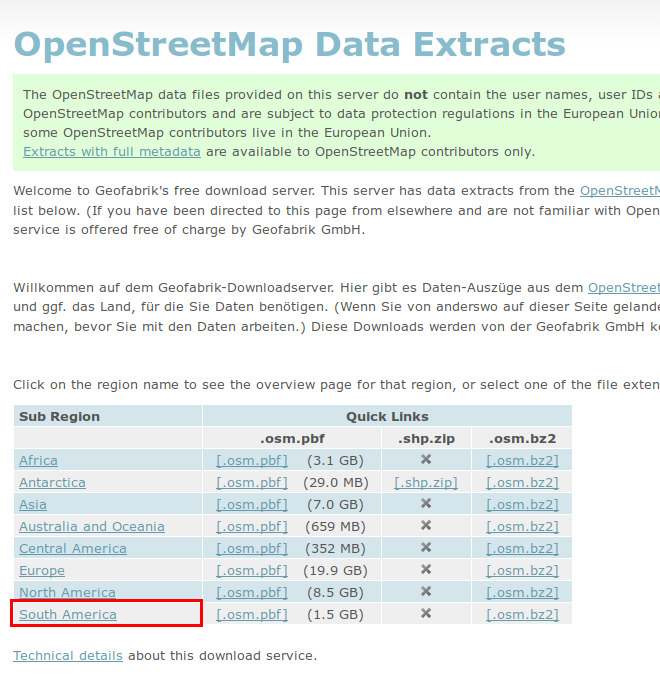
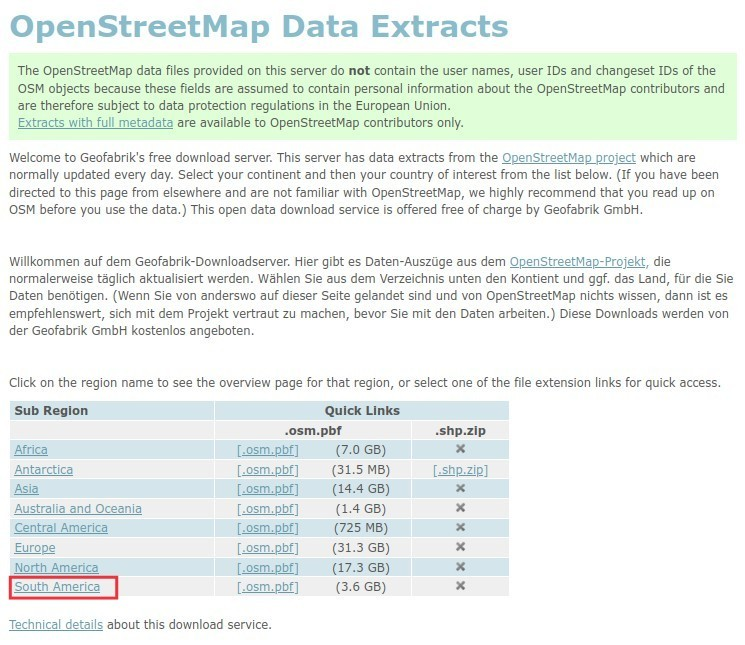
3.5 maj données + capture écran quickosm

diff --git a/03_05_donnees_osm.php b/03_05_donnees_osm.php
@@ -42,42 +42,7 @@
     			
     			<p>Il est possible d'afficher un fonds OpenStreetMap, comme décrit précédemment, soit <a href="03_04_fonds_carte.php#III42">via l'explorateur avec un serveur de tuiles</a>, soit <a href="03_04_fonds_carte.php#III43">via l'extension QuickMapServices</a>.</p>
     			
-    			 <p>Si vous choisissez la première méthode, voici comment ajouter de nombreux fonds utilisant les données OSM :</p>
-    	        
-    	        <div class="manip">
-    	            <p>Dans un navigateur internet, rendez-vous dans <a target="_blank" class="ext" href="https://wiki.openstreetmap.org/wiki/Tile_servers">la page du wiki OSM dédiée aux serveurs de tuiles raster</a> : cette page liste les adresses des fonds de carte utilisant les données OSM accessibles en ligne.</p>
-    	            <p>Ici, nous allons ajouter le fonds <b>Stamen Toner</b> en noir et blanc.</p>
-    	            <figure>
-                    	<a href="illustrations/3_5_stamen_toner.jpg" >
-                    	    <img src="illustrations/3_5_stamen_toner.jpg" alt="page du wiki OSM sur les serveurs de tuiles, ligne correspondant au fonds Stamen Toner" width="620">
-                        </a>
-                    </figure>
-    	            <p>Copiez l'url du serveur : <b>https://stamen-tiles.a.ssl.fastly.net/toner/{z}/{x}/{y}.jpg</b></p>
-    	            <p>Dans QGIS, panneau explorateur, clic-droit sur XYZ Tiles &#8594; Nouvelle connexion...</p>
-    	            <figure>
-                    	<a href="illustrations/3_5_stamen_connexion.jpg" >
-                    	    <img src="illustrations/3_5_stamen_connexion.jpg" alt="Fenêtre de nouvelle connexion à un serveur de tuiles" width="430">
-                        </a>
-                    </figure>
-                    <ul>
-                        <li>Nom : il s'agit du nom qui apparaîtra dans le panneau explorateur, vous pouvez taper par exemple <b>Stamen Toner</b></li>
-                        <li>URL : collez l'URL que vous avez préalablement copiée : <b>https://stamen-tiles.a.ssl.fastly.net/toner/{z}/{x}/{y}.jpg</b></li>
-                    </ul>
-                    <p class="note">Si l'URL contient le caractère <b>$</b>, il faut le supprimer, par exemple http://c.tile.stamen.com/watercolor/${z}/${x}/${y}.jpg devient http://c.tile.stamen.com/watercolor/{z}/{x}/{y}.jpg.</p>
-                    <p>Laissez les valeurs par défaut pour les autres paramètres, cliquez sur OK.</p>
-                    <p>Le fonds Stamen Toner apparaît maintenant avec les autres fonds dans la rubrique XYZ Tiles.</p>
-                    <figure>
-                        <a href="illustrations/3_5_stamen_xyz.jpg" >
-                    	    <img src="illustrations/3_5_stamen_xyz.jpg" alt="panneau explorateur, rubrique XYZ Tiles : le fonds Stamen Toner apparaît avec les autres" width="180">
-                    	</a>
-                    </figure>
-                    <p>Double-cliquez pour l'ajouter :</p>
-                    <figure>
-                    	<a href="illustrations/3_5_stamen_visu.jpg" >
-                    	    <img src="illustrations/3_5_stamen_visu.jpg" alt="Aperçu du fonds Stamen Toner" width="500">
-                        </a>
-                    </figure>
-    	        </div>
+    			<p>Attention, si vous voulez afficher un fonds <a class="ext" target="_blank" href="https://maps.stamen.com/" >Stamen</a>, il vous faudra une clé API ; voir <a class="ext" target="_blank" href="https://docs.stadiamaps.com/tutorials/how-to-use-stadia-maps-as-a-raster-base-layer-in-qgis/" >ce tutoriel (en anglais)</a> pour la marche à suivre.</p>
 			   
 			
 			<h3>Télécharger des données OpenStreetMap<a class="headerlink" id="III53" href="#III53"></a></h3>
@@ -94,7 +59,7 @@
                      <p>Dans la colonne <b>Sub-Region</b>, cliquez sur <b>South America</b>, puis sur téléchargez les données au format shapefile pour le <b>Suriname</b>.</p>
                      <figure>
                     	<a href="illustrations/3_5_geofabrik_southamerica.jpg" >
-                    		<img src="illustrations/3_5_geofabrik_southamerica.jpg" alt="lien pour télécharger les données du Suriname au format SHP sur Geofabrik" width="500">
+                    		<img src="illustrations/3_5_geofabrik_southamerica.jpg" alt="lien pour télécharger les données du Suriname au format SHP sur Geofabrik" width="600">
                     	</a>
                      </figure>
                      <figure>
@@ -102,7 +67,7 @@
                     		<img src="illustrations/3_5_geofabrik_suriname.jpg" alt="lien pour télécharger les données du Suriname au format SHP sur Geofabrik" width="500">
                     	</a>
                     </figure>
-                     <p class="note">Au cas où le téléchargement échouerait, ces données sont également disponibles <a href="donnees/TutoQGIS_03_RechercheDonnees.zip">avec les données de la partie III</a>.</p>
+                     <p class="note">Au cas où le téléchargement échouerait, ces données sont également disponibles <a href="donnees/TutoQGIS_03_RechercheDonnees.zip">avec les données de la partie III</a> (fichier <em class="data">suriname-260105-free.shp.zip</em>).</p>
                      <p>Enregistrer le fichier sur votre ordinateur, décompressez le fichier ZIP obtenu dans votre répertoire de travail : vous obtenez une série de couches au format Shapefile.</p>
                      <p>Que contiennent ces données ? Pour le savoir, cliquez sur le lien <a class="ext" target="_blank" href="http://download.geofabrik.de/osm-data-in-gis-formats-free.pdf" >Format description PDF</a> disponible en cliquant sur <b>Suriname</b>
                      <a class="thumbnail_bottom" href="#thumb">à partir de la page où vous avez téléchargé les données
@@ -215,11 +180,11 @@
                     		<img src="illustrations/3_5_quickosm_fenetre.jpg" alt="Fenêtre de QuickOSM, choix des options" width="600">
                     	</a>
                     </figure>
-                    <p>Dans la rubrique <b>Requête rapide</b> :</p>
+                    <p>Dans la rubrique <b>Requête rapide</b> (colonne de gauche) :</p>
                     <ul>
                         <li class="espace">Choisissez la clé <b>waterway</b> puis la valeur <b>river</b> pour ne récupérer que les cours d'eau de type rivière</li>
                         <li class="espace">Dans la liste déroulante <b>Dans</b>, sélectionnez l'option <b>Emprise du canevas</b> pour limiter le volume de données à charger à la zone visible dans QGIS</li>
-                        <li class="espace">Cliquez enfin sur le bouton <b>Exécuter</b>.</li>
+                        <li class="espace">Cliquez enfin sur le bouton <b>Exécuter la requête</b>.</li>
                     </ul>
                     <p>Patientez (plus la zone visible dans QGIS est grande, plus c'est long !)... Les données sont chargées et affichées :</p>
                     <figure>

diff --git a/03_02_donnees_flux.php b/03_02_donnees_flux.php
@@ -44,8 +44,8 @@
   				
   				<div class="manip">
   					<p>Lancez QGIS si ce n'est pas déjà fait, ou bien créez un nouveau projet.</p>
-  					<p><img class="icone" src="illustrations/1_2_gestionnaire_donnees_icone.jpg" alt="icône gestionnaire de source de données" > Ajoutez-y la couche <em class="data"><a href="donnees/TutoQGIS_03_RechercheDonnees.zip">DEPARTEMENT_CREUSE.gpkg</a></em> que vous trouverez dans le dossier <b>TutoQGIS_03_RechercheDonnees/donnees</b>.</p>
-  					<p>Vérifiez que votre projet soit bien dans le même SCR que la couche  <em class="data">DEPARTEMENT_CREUSE.shp</em>, soit le RGF93/Lambert93 EPSG:2154.</p>
+  					<p><img class="icone" src="illustrations/1_2_gestionnaire_donnees_icone.jpg" alt="icône gestionnaire de source de données" > Ajoutez-y la couche <em class="data"><a href="donnees/TutoQGIS_03_RechercheDonnees.zip">departement_creuse.gpkg</a></em> que vous trouverez dans le dossier <b>TutoQGIS_03_RechercheDonnees/donnees</b>.</p>
+  					<p>Vérifiez que votre projet soit bien dans le même SCR que la couche  <em class="data">departement_creuse.shp</em>, soit le RGF93/Lambert93 EPSG:2154.</p>
   				</div>
   				<p>Nous allons maintenant ajouter au projet la carte géologique de la France au 1/1 000 000è via un flux WMS.</p>
   				<div class="manip">
